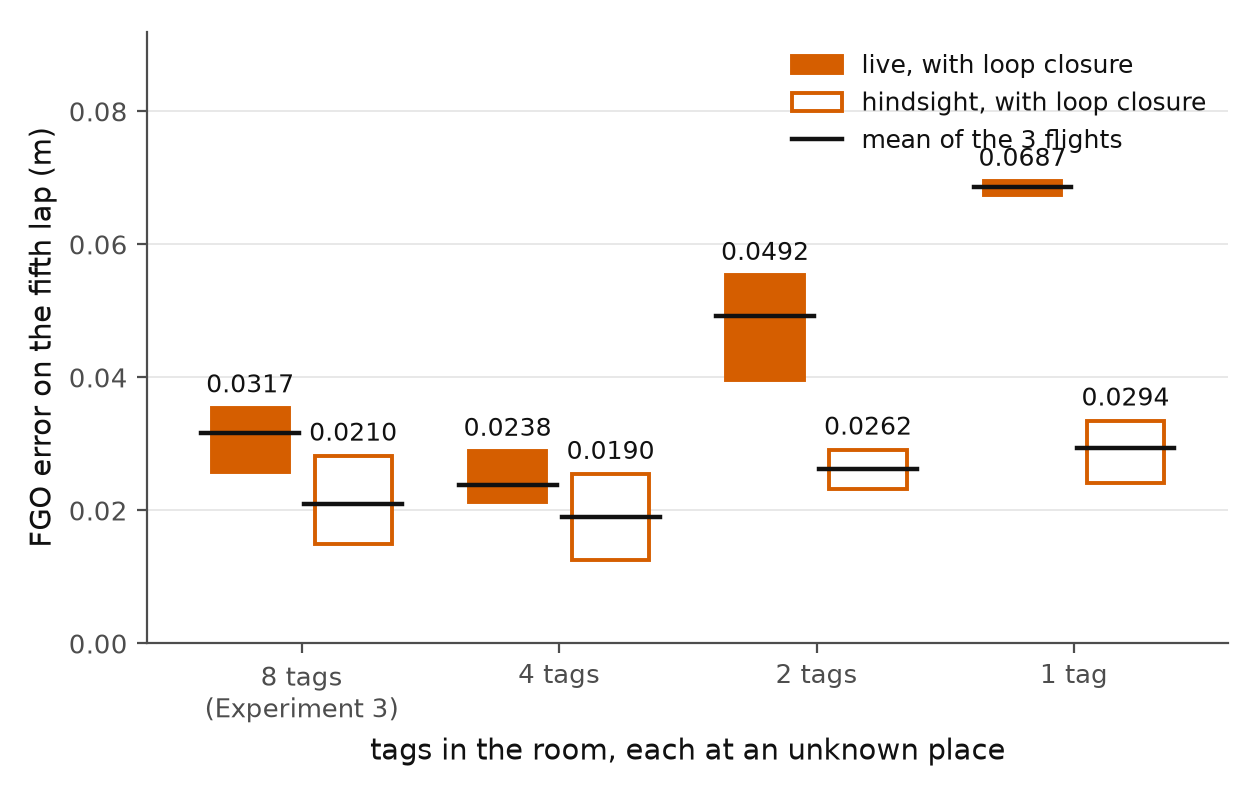
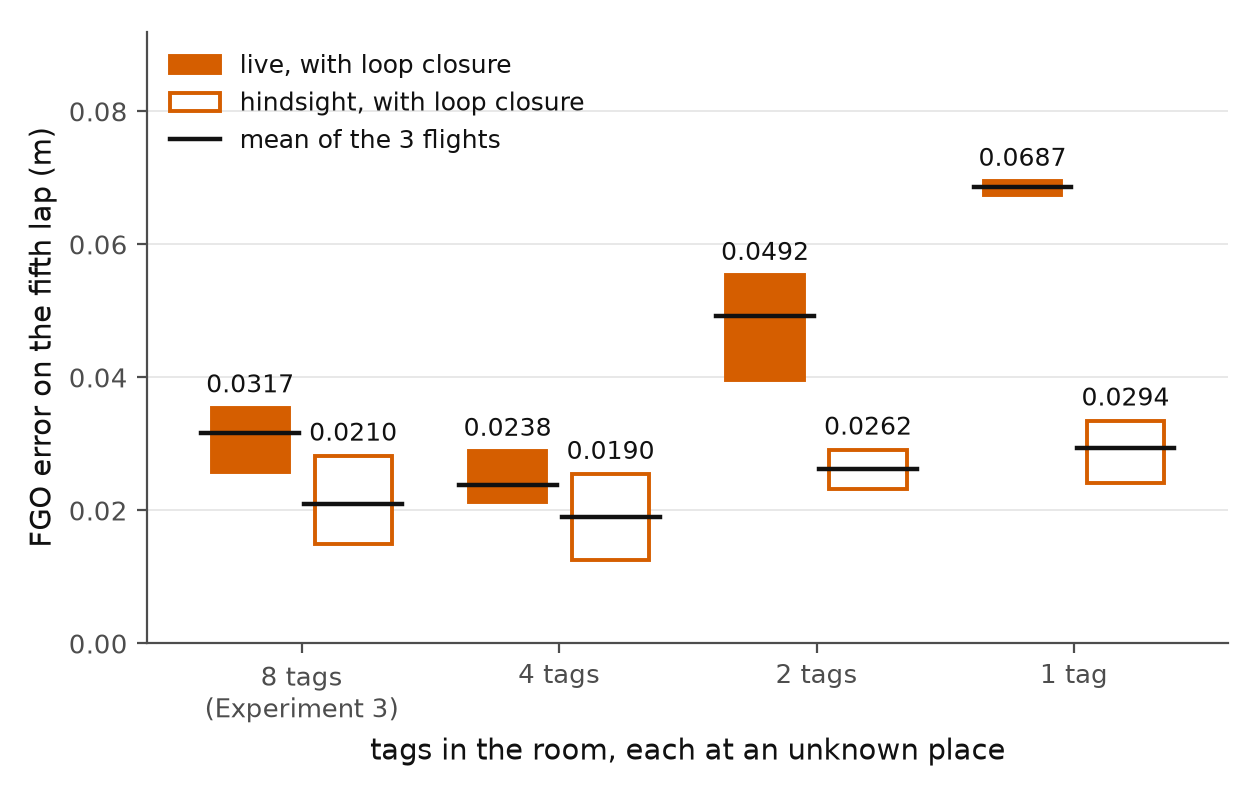
D124 Group C: advisor-review fixes (raw/fitted labels, RMSE wording, caption accuracy, layout)
Second round of fixes on the Group C candidates (E2/E3/E5), found by advisor review:
every caption now states raw or fitted explicitly (the on-canvas badge the restyle rules
correctly removed was never moved into the caption text); C07's y-label and caption called
an RMSE an "average", fixed to match F7's wording; C02's caption had dropped the 5% rate;
C03's caption falsely claimed to show "the same numbers" as C02 and was rewritten to stand
alone (own columns, n per row, raw/descriptive status); C01's legend moved off the 1-tag
label it was sitting on; C04_table.md's footnote no longer carries coordinator-process text;
ASCII " -- " em-dash substitutes removed from every caption/table file.

Re-ran eval/figs_cand_c_extract.py under heavy.py and eval/figs_cand_c.py: 81/81 checks still
pass, check_numbers_frozen.py PASS, caption_verdict_check.py 24/24 unchanged, all 7 captions
re-verified against its exact banned-word/pointer-line logic, every candidate PDF still 453.6
pt wide. All five chart PNGs re-viewed.

Changed region(s): [[0.619, 0.0625, 0.9595, 0.1875], [0.1238, 0.0625, 0.4643, 0.1875]]

diff --git a/eval/figs_cand_c.py b/eval/figs_cand_c.py
@@ -265,13 +265,14 @@ ax.set_ylabel("FGO error on the fifth lap (m)")
 leg = ax.legend(handles=[Patch(facecolor=C["FGO"], edgecolor=C["FGO"], lw=1.4, label="live, with loop closure"),
                          Patch(facecolor=SURF, edgecolor=C["FGO"], lw=1.4, label="hindsight, with loop closure"),
                          Line2D([], [], color=INK, lw=1.6, label="mean of the 3 flights")],
-                frameon=False, loc="upper right", fontsize=9.0, labelspacing=0.5)
+                frameon=False, loc="upper left", fontsize=9.0, labelspacing=0.5)
 fig.tight_layout()
 save("C01", fig, "docs/thesis/tier1/scores/E2_verdicts.json, E2_T_{B,C,D}_r{1,2,3}.json; eval/results/expL/T_A_r{1,2,3}_t245.json", key=True)
 
 C01_CAP = (
     f"Extension E2 (loop closure with fewer tags; tag room, 5 laps of a 6 m square, open loop on simulator truth; the condition with "
-    "8 tags re-uses the Experiment 3 flights): the FGO's horizontal position error on the fifth lap, root-mean-square, in the frame of "
+    "8 tags re-uses the Experiment 3 flights): raw, measured from the start tag, nothing fitted. The FGO's horizontal position error "
+    "on the fifth lap, root-mean-square, in the frame of "
     "the start tag, box = lowest to highest over 3 flights, solid/filled = live (with loop closure), open = hindsight (after "
     f"landing, with loop closure); black line = the mean of the 3 flights in that box (live or hindsight). The mean lap-5 live "
     "error over 3 flights is "
@@ -353,9 +354,10 @@ fig.tight_layout(rect=(0, 0.1, 1, 1))
 save("C02", fig, "docs/thesis/tier1/scores/E3_verdicts.json (runs, references)", pool="C0203")
 
 C0203_CAP = (
-    "Extension E3 (wrong tag IDs; 8-tag room, 5 laps, the FGO with loop closure): outcome of every run, 3 flights (T_A_r1-r3) times 3 "
-    "seeds at each wrong-ID rate (1%, control at rate 0: 3 flights, no seed sweep). One mark per run: live horizontal position error "
-    "over five laps, root-mean-square, start-tag frame, metres; a run that diverged (no finite error) is marked separately. Grey band: "
+    "Extension E3 (wrong tag IDs; 8-tag room, 5 laps, the FGO with loop closure): raw, measured from the start tag, nothing fitted. "
+    "Outcome of every run, 3 flights (T_A_r1-r3) times 3 "
+    "seeds at each wrong-ID rate (1% and 5%; control at rate 0: 3 flights, no seed sweep). One mark per run: live horizontal position "
+    "error over five laps, root-mean-square, start-tag frame, metres; a run that diverged (no finite error) is marked separately. Grey band: "
     f"the stored error without loop closure on the same 3 flights, {VREF} m. At 1% wrong IDs the FGO as built (plain) diverged in "
     f"{ROW3[('a','0.01')]['div']} of {ROW3[('a','0.01')]['n']} runs and the finished runs ended at {ROW3[('a','0.01')]['rng']} m; "
     f"at 5% it diverged in {ROW3[('a','0.05')]['div']} of {ROW3[('a','0.05')]['n']} and finished at "
@@ -385,8 +387,14 @@ guard("C0203", C03_MD)
 with open(os.path.join(OUTD, "C03_table.md"), "w") as f:
     f.write(C03_MD + "\n")
 print("wrote C03_table.md")
-C03_CAP = ("Extension E3 (wrong tag IDs): the outcome of every run as a table, the same data and the same numbers as candidate "
-           "C02's chart (one row per condition instead of one mark per run); see C03_table.md.")
+C03_CAP = ("Extension E3 (wrong tag IDs): raw, measured from the start tag, nothing fitted. The outcome of every run as a table, "
+           "one row per condition (1% and 5% wrong IDs, FGO as built and robust, plus a no-wrong-ID robust control), from the same "
+           "docs/thesis/tier1/scores/E3_verdicts.json runs and references that candidate C02's chart plots as one mark per run. "
+           "Columns: "
+           "runs diverged (no finite error), the live error of the finished runs (root-mean-square over five laps, start-tag frame, "
+           "lowest to highest, metres), the runs counted as collapsed (descriptive, not a registered measure: the run finished with a "
+           "wrong tag map, per the user's collapse-count ruling) and the stored error without loop closure on the same 3 flights, for "
+           "reference. n per row is 9 runs for the 1% and 5% rows (both arms) and 3 for the no-wrong-ID control; see C03_table.md.")
 guard("C0203", C03_CAP)
 write_caption("C03", C03_CAP + "\n\n" + pointer_line(["H-E3.1", "P-E3b.1 (1%)", "P-E3b.1 (5%)", "P-E3b.2"]))
 
@@ -437,18 +445,17 @@ C04_MD = "\n".join([
     "|---|---|---|---|---|",
 ] + ["| " + " | ".join(row) + " |" for row in C04_ROWS] + [
     "",
-    "Pass or fail of each test, counted over the runs (flights for P-E3.6); 1% / 5% = share of tag sightings given a wrong ID; a "
-    "diverged run counts as not met. Source: docs/thesis/tier1/scores/E3_verdicts.json (criteria_a, criteria_b). Primary: H-E3.1. "
-    "This table reproduces the same rows as the Extension E3 section of the appendix verdict register "
-    "(docs/thesis/tables/TA_verdicts.md), already in docs/thesis/figures_thesis/; it is included here because the brief names it "
-    "explicitly as its own candidate -- flagged for the coordinator to rule on whether it duplicates that register or stands as a "
-    "focused Extension-E3-only companion.",
+    "Pass or fail of each test, counted over the runs (flights for P-E3.6, raw per-flight means, nothing fitted); 1% / 5% = share of "
+    "tag sightings given a wrong ID; a diverged run counts as not met. Source: docs/thesis/tier1/scores/E3_verdicts.json "
+    "(criteria_a, criteria_b). Primary: H-E3.1. This table reproduces the same rows as the Extension E3 section of the appendix "
+    "verdict register (docs/thesis/tables/TA_verdicts.md).",
 ])
 guard("C04", C04_MD)
 with open(os.path.join(OUTD, "C04_table.md"), "w") as f:
     f.write(C04_MD + "\n")
 print("wrote C04_table.md")
-C04_CAP = ("Extension E3 (wrong tag IDs): every registered test, its count over the runs (3 flights × 3 seeds at each wrong-ID "
+C04_CAP = ("Extension E3 (wrong tag IDs): raw per-run counts against each registered band, nothing fitted. Every registered test, "
+           "its count over the runs (3 flights × 3 seeds at each wrong-ID "
            "rate; the robust control at rate 0 is 3 flights, no seed sweep), reproduced as a table from docs/thesis/tier1/scores/"
            "E3_verdicts.json; see C04_table.md.")
 guard("C04", C04_CAP)
@@ -537,13 +544,15 @@ save("C06", fig, "eval/figs_cand_c_extract.py cache (bag /ground_truth/pose of T
      "stats.json landmarks_final of the two runs; sim/worlds/room_tags_map.json; scores: docs/thesis/tier1/scores/"
      "E3a_T_A_r3_0.05_s0.json, E3b_T_A_r2_0.05_s1.json")
 
-C05_CAP = ("Extension E3 (wrong tag IDs), main example: grey = true track and the 8 true tags, from the start tag; orange = the "
+C05_CAP = ("Extension E3 (wrong tag IDs), main example: raw, from the start tag, nothing fitted. Grey = true track and the 8 true "
+           "tags; orange = the "
            "FGO's hindsight track (after landing) and its final tag map, equal scale, identical limits in both panels. Left: no "
            "wrong IDs (Experiment 3, flight 1), the final map matches the room. Right: 1% wrong IDs, FGO as built (flight 1, seed 0), "
            "the final map is shrunk inward from the true square.")
 guard("C05", C05_CAP)
 write_caption("C05", C05_CAP + "\n\n" + pointer_line([]))
-C06_CAP = ("Extension E3 (wrong tag IDs), appendix: two more wrong-ID runs, same drawing and equal scale as candidate C05. Left: 5% "
+C06_CAP = ("Extension E3 (wrong tag IDs), appendix: raw, from the start tag, nothing fitted. Two more wrong-ID runs, same drawing "
+           "and equal scale as candidate C05. Left: 5% "
            "wrong IDs, FGO as built (flight 3, seed 0), the final map shrunk, as in C05's right-hand panel. Right: 5% wrong IDs, "
            "robust FGO (flight 2, seed 1), the one robust run that collapsed: the final map folded into a different arrangement from "
            "the true square rather than merely shrinking.")
@@ -600,7 +609,7 @@ ax.set_xticks([0, 1.3])
 ax.set_xticklabels([T("without loop closure"), T("with loop closure")])
 ax.tick_params(axis="x", pad=8)
 ax.grid(axis="x", visible=False)
-ax.set_ylabel("average position error over 5 laps (m)")
+ax.set_ylabel("horizontal RMSE over 5 laps (m)")
 leg = ax.legend(handles=[Patch(facecolor=C["UKF"], edgecolor=C["UKF"], lw=1.4, label="UKF live"),
                          Patch(facecolor=SURF, edgecolor=C["UKF"], lw=1.4, label="UKF hindsight"),
                          Patch(facecolor=C["FGO"], edgecolor=C["FGO"], lw=1.4, label="FGO live"),
@@ -610,8 +619,9 @@ fig.tight_layout()
 save("C07", fig, "docs/thesis/tier1/scores/e5_verdicts.json, e5_T_A_r{1,2,3}.json", key=True)
 
 C07_CAP = ("Extension E5 (a UKF variant carrying each AprilTag as a landmark state, 8-tag room, 5 laps, same flights as Experiment 3): "
-           "average horizontal position error over 5 laps, box = lowest to highest over 3 flights, solid/filled = live, open = "
-           "hindsight (UKF: RTS-smoothed; FGO: the stored Experiment 3 values, its own hindsight after landing -- iSAM2's "
+           "raw, measured from the start tag, nothing fitted. "
+           "Horizontal RMSE over the 5 laps, start-tag frame, box = lowest to highest over 3 flights, solid/filled = live, open = "
+           "hindsight (UKF: RTS-smoothed; FGO: the stored Experiment 3 values, its own hindsight after landing, iSAM2's "
            "full-graph estimate after 5 extra updates, not a whole-flight LM batch, see docs/thesis/tier1/e5_design.md:247). "
            "Without loop closure "
            f"(each tag seen once), UKF live {V5[('UKF','nolc','live')]} m, UKF hindsight {V5[('UKF','nolc','hindsight')]} m, FGO live "

diff --git a/docs/handovers/2026-11-04_cand_c.md b/docs/handovers/2026-11-04_cand_c.md
@@ -14,7 +14,7 @@ New generator `eval/figs_cand_c.py` (run with `/home/makerspace/venv-evo/bin/pyt
 | C01 | Loop closure with fewer tags: the FGO's error on lap 5 | chart | walkthrough `extra/ex_E2_fewer_tags.png`; summary page 13 (same data) | 14/14 | H-E2.1; P-E2.5 (graded) |
 | C02 | Wrong tag IDs: outcome of every run | chart | summary page 14 (chart); walkthrough `extra/ex_E3_table.png` (really a table, see C03) | 14/14 (pool `C0203`, shared with C03) | H-E3.1; P-E3b.1 (1%); P-E3b.1 (5%); P-E3b.2 |
 | C03 | Wrong tag IDs: outcome of every run (table) | markdown table | walkthrough `extra/ex_E3_table.png` | shared with C02 | same as C02 |
-| C04 | Wrong tag IDs: every registered verdict | markdown table | summary page 15 = walkthrough page A1 | 18/18 | all 10 E3 ids (H-E3.1/.2/.3, P-E3.4, P-E3.5a/b/c, P-E3.6, P-E3b.1 (1%)/(5%), P-E3b.2) |
+| C04 | Wrong tag IDs: every registered verdict | markdown table | summary page 15 = walkthrough page A1 | 18/18 | all 11 E3 ids (H-E3.1/.2/.3, P-E3.4, P-E3.5a/b/c, P-E3.6, P-E3b.1 (1%)/(5%), P-E3b.2) |
 | C05 | Tag maps: clean reference + main collapse example | chart | `flights/fl_E3_maps.png` | 6/6 | none (descriptive) |
 | C06 | Tag maps: appendix (two more runs) | chart | `flights/fl_E3_maps_app.png` | 6/6 | none (descriptive) |
 | C07 | A UKF with landmark states against the FGO | chart | walkthrough `extra/ex_E5_ukf_landmarks.png`; summary page 18 (same data) | 23/23 | H-E5.1; S-E5.5; S-E5.6 |
@@ -44,12 +44,18 @@ Run once under `heavy.py` before `figs_cand_c.py`:
 python3 ~/thesis_ws/src/estimators/fgo_cpp/tools/heavy.py "cand-c E3 map bag extraction" -- \
     /home/makerspace/venv-evo/bin/python eval/figs_cand_c_extract.py
 ```
-It serialised correctly behind another group's heavy job both times it ran this session (group A's F9 chain was
-running the first time; the second run, after the first cache was deleted for the advisor-review fixes, found the
-lock free). `figs_cand_c.py` reads only the cache (never a bag directly) and deletes
-`~/thesis_data/cand_c_cache` as its last step, every run -- confirmed empty with `ls` after each of the two full
-runs this session. **Regenerating C05/C06 from a clean tree means re-running the extraction step first** (the
-cache does not persist between runs by design).
+This session ran the extraction step 4 times (each time `figs_cand_c.py` had deleted the previous cache on its
+prior successful completion, or after a crash partway through its own run left an earlier cache in place -- see
+below) and `figs_cand_c.py` itself 6 times total, iterating on two rounds of advisor review (legend/overlap and
+font-size fixes, then caption-accuracy fixes: the "raw" tag, the C07 RMSE/average wording, the C02/C03 rate and
+factual corrections, the C01 legend position). It serialised correctly behind other groups' heavy jobs twice
+(group A's F9 chain, then later group A's cache-fix extraction); both times it waited and ran once the lock freed,
+with no stale-lock or clobbering issue. `figs_cand_c.py` reads only the cache (never a bag directly). It deletes
+`~/thesis_data/cand_c_cache` as its LAST step, so a run that crashes partway through (as one did, on an
+over-length y-axis label in C07, caught by the off-canvas-text check) leaves the cache intact for the next
+attempt -- confirmed by `ls` after both the crash and every clean completion this session.
+**Regenerating C05/C06 from a clean tree means re-running the extraction step first** if no cache remains (the
+final, successful run's cache was deleted as designed).
 
 ## Design notes / judgement calls
 
@@ -103,18 +109,48 @@ cache does not persist between runs by design).
   output of `eval/figs_walkthrough_extra.py`, a separately-written generator computing the identical quantity from
   the identical stored files -- so the check is a genuine two-pipeline agreement, not a tautology. That file is read
   only, never regenerated or modified by this script.
+- **Every caption now states raw or fitted explicitly** (advisor review, second round; the brief's caption spec
+  requires it): all seven source charts carried an on-canvas "raw, measured from the start tag, nothing fitted"
+  (or "raw, from the start tag" for the maps) corner badge that D124's no-badges rule correctly removed, but the
+  information itself was never moved into the caption text in the first build. Every one of C01-C07 now opens with
+  an explicit raw/fitted statement.
+- **C07 was calling an RMSE an "average"**: both the caption and the y-axis label said "average ... position
+  error" for a quantity that is `rmse_m` (root-mean-square), not a mean. Both now read "horizontal RMSE over 5
+  laps", matching F7's own wording for the same kind of quantity; the y-label was shortened (dropping "start-tag
+  frame", stated in the caption instead) after the longer version ran off the canvas at this figure's width,
+  caught by the off-canvas-text assertion in `save()`.
+- **C02's caption dropped the 5% rate; C03's caption made a false claim** (advisor review): C02 originally said
+  "at each wrong-ID rate (1%, control at rate 0 ...)", omitting 5% entirely -- fixed to "(1% and 5%; control at
+  rate 0 ...)". C03 claimed "the same numbers as candidate C02's chart", which is false (C03's "collapsed" column
+  has no counterpart on C02's chart) and was also too thin to stand alone without C02. C03's caption now states
+  its own columns, the n per row (9 for the 1%/5% rows, 3 for the no-wrong-ID control), and the raw/descriptive
+  status of each column directly.
+- **C01's legend moved from upper-right to upper-left**: at upper-right it sat directly on the 1-tag box's
+  "0.0687" direct label (the data is much lower at the 8-tag and 4-tag x-positions, leaving upper-left genuinely
+  clear). Re-viewed after the move; no collision remains.
+- **C04_table.md's footnote no longer contains coordinator-process text**: "flagged for the coordinator to rule
+  on whether it duplicates that register..." was meta-commentary sitting inside a deliverable table file; that
+  question already lives in `index_c.md`'s own notes section (see "Open items" below), so the table's own footnote
+  now states only what the table is and where it comes from.
+- **ASCII " -- " (em-dash substitute) removed from every caption and table file**: found in the C07 caption and
+  the C04_table.md footnote; both rephrased with commas/parentheses. Confirmed none remain in any
+  `captions/*.md`, `C03_table.md` or `C04_table.md` by direct grep (only inline code comments inside
+  `eval/figs_cand_c.py` itself use " -- ", which is not a deliverable caption/figure text and is not subject to
+  the no-em-dash rule).
 
-## Checks run
+## Checks run (final state)
 
 - `eval/figs_cand_c.py`'s own checks: **81/81**.
 - `python3 tools/check_numbers_frozen.py`: **PASS**.
 - `/home/makerspace/venv-evo/bin/python eval/caption_verdict_check.py`: **24/24** (9 files, 3 exempt A1-A3) --
   unchanged from before this work (it does not yet scan `candidates/`, per the brief).
 - Manual replication of `caption_verdict_check.py`'s own `BANNED`/`POINTER_RE`/id-lookup logic against all 7
-  `candidates/captions/*.md` files: **ALL OK** (no banned word, every pointer line in the exact form, every id a
-  real `TA_verdicts.md` ID-column value).
-- Every candidate PNG viewed directly (Read tool) after the font-size and layout fixes; no collisions, clipping,
-  leftover text or overlaps found in the final set.
+  `candidates/captions/*.md` files, re-run after every caption edit this session: **ALL OK** (no banned word,
+  every pointer line in the exact form, every id a real `TA_verdicts.md` ID-column value, no em-dash and no
+  ASCII " -- " substitute in any caption).
+- Every candidate PNG viewed directly (Read tool) after both rounds of fixes (layout/font-size, then
+  caption-accuracy); no collisions, clipping, leftover text or overlaps found in the final set, including a
+  specific re-check of C01's legend position and C02's marker spacing.
 - `pdfinfo` confirms every candidate PDF is exactly 453.6 pt (160 mm) wide.
 
 ## Files touched
@@ -136,3 +172,11 @@ was touched.
   the PRIMARY hypothesis a figure's own stated content directly measures, per F7's narrowing precedent in the
   restyle handover), these could be trimmed back to H-E3.1 only -- left as built since the content genuinely covers
   all four.
+- **C05/C06 layout: two 2-panel composites, not four single-run plots.** Built to match the brief's own naming
+  ("the main collapse example with the clean reference (flights/fl_E3_maps.png) and the appendix maps
+  (flights/fl_E3_maps_app.png)"), each a 2-panel figure on identical axis limits (equal scale, shared x/y range),
+  which satisfies "panels side by side only on identical limits" as written. An alternative, equally defensible
+  reading of "one plot per run" is four separate single-panel figures (one per run, no composite at all) -- not
+  built, since the brief's explicit two-file naming reads as the intended grouping, but flagged here in case the
+  coordinator prefers the fully-split version; rebuilding it would reuse the same `e3_maps()` plotting code with
+  `len(runs) == 1`.

diff --git a/docs/thesis/figures_thesis/candidates/captions/C07.md b/docs/thesis/figures_thesis/candidates/captions/C07.md
@@ -1,3 +1,3 @@
-Extension E5 (a UKF variant carrying each AprilTag as a landmark state, 8-tag room, 5 laps, same flights as Experiment 3): average horizontal position error over 5 laps, box = lowest to highest over 3 flights, solid/filled = live, open = hindsight (UKF: RTS-smoothed; FGO: the stored Experiment 3 values, its own hindsight after landing -- iSAM2's full-graph estimate after 5 extra updates, not a whole-flight LM batch, see docs/thesis/tier1/e5_design.md:247). Without loop closure (each tag seen once), UKF live 0.8738–1.4112 m, UKF hindsight 0.9162–1.3349 m, FGO live 0.2625–0.3608 m, FGO hindsight 0.2210–0.2657 m. With loop closure (re-identifying tags seen before), UKF live 0.0911–0.1335 m, UKF hindsight 0.0445–0.0552 m, FGO live 0.0494–0.0760 m, FGO hindsight 0.0172–0.0270 m. With loop closure the UKF's lap 5 ÷ lap 1 live ratio is 0.27–0.42.
+Extension E5 (a UKF variant carrying each AprilTag as a landmark state, 8-tag room, 5 laps, same flights as Experiment 3): raw, measured from the start tag, nothing fitted. Horizontal RMSE over the 5 laps, start-tag frame, box = lowest to highest over 3 flights, solid/filled = live, open = hindsight (UKF: RTS-smoothed; FGO: the stored Experiment 3 values, its own hindsight after landing, iSAM2's full-graph estimate after 5 extra updates, not a whole-flight LM batch, see docs/thesis/tier1/e5_design.md:247). Without loop closure (each tag seen once), UKF live 0.8738–1.4112 m, UKF hindsight 0.9162–1.3349 m, FGO live 0.2625–0.3608 m, FGO hindsight 0.2210–0.2657 m. With loop closure (re-identifying tags seen before), UKF live 0.0911–0.1335 m, UKF hindsight 0.0445–0.0552 m, FGO live 0.0494–0.0760 m, FGO hindsight 0.0172–0.0270 m. With loop closure the UKF's lap 5 ÷ lap 1 live ratio is 0.27–0.42.
 
 Verdicts: Table A.4, rows H-E5.1; S-E5.5; S-E5.6.

diff --git a/docs/thesis/figures_thesis/candidates/captions/C01.md b/docs/thesis/figures_thesis/candidates/captions/C01.md
@@ -1,3 +1,3 @@
-Extension E2 (loop closure with fewer tags; tag room, 5 laps of a 6 m square, open loop on simulator truth; the condition with 8 tags re-uses the Experiment 3 flights): the FGO's horizontal position error on the fifth lap, root-mean-square, in the frame of the start tag, box = lowest to highest over 3 flights, solid/filled = live (with loop closure), open = hindsight (after landing, with loop closure); black line = the mean of the 3 flights in that box (live or hindsight). The mean lap-5 live error over 3 flights is 0.0317 m at 8 tags, 0.0238 m at 4 tags, 0.0492 m at 2 tags and 0.0687 m at 1 tag; the corresponding hindsight means (no mean test is registered for hindsight) are 0.0210, 0.0190, 0.0262 and 0.0294 m. With 1 tag, that tag is the start tag, so that condition is the known-map, one-tag case.
+Extension E2 (loop closure with fewer tags; tag room, 5 laps of a 6 m square, open loop on simulator truth; the condition with 8 tags re-uses the Experiment 3 flights): raw, measured from the start tag, nothing fitted. The FGO's horizontal position error on the fifth lap, root-mean-square, in the frame of the start tag, box = lowest to highest over 3 flights, solid/filled = live (with loop closure), open = hindsight (after landing, with loop closure); black line = the mean of the 3 flights in that box (live or hindsight). The mean lap-5 live error over 3 flights is 0.0317 m at 8 tags, 0.0238 m at 4 tags, 0.0492 m at 2 tags and 0.0687 m at 1 tag; the corresponding hindsight means (no mean test is registered for hindsight) are 0.0210, 0.0190, 0.0262 and 0.0294 m. With 1 tag, that tag is the start tag, so that condition is the known-map, one-tag case.
 
 Verdicts: Table A.4, rows H-E2.1; P-E2.5 (graded).

diff --git a/docs/thesis/figures_thesis/candidates/captions/C02.md b/docs/thesis/figures_thesis/candidates/captions/C02.md
@@ -1,3 +1,3 @@
-Extension E3 (wrong tag IDs; 8-tag room, 5 laps, the FGO with loop closure): outcome of every run, 3 flights (T_A_r1-r3) times 3 seeds at each wrong-ID rate (1%, control at rate 0: 3 flights, no seed sweep). One mark per run: live horizontal position error over five laps, root-mean-square, start-tag frame, metres; a run that diverged (no finite error) is marked separately. Grey band: the stored error without loop closure on the same 3 flights, 0.2625–0.3608 m. At 1% wrong IDs the FGO as built (plain) diverged in 6 of 9 runs and the finished runs ended at 3.7161–3.8960 m; at 5% it diverged in 0 of 9 and finished at 4.0395–4.2231 m. The robust FGO never diverged at either rate (0.0496–1.4769 m at 1%, 0.9776–4.1849 m at 5%) and with no wrong IDs finished at 0.0484–0.0760 m.
+Extension E3 (wrong tag IDs; 8-tag room, 5 laps, the FGO with loop closure): raw, measured from the start tag, nothing fitted. Outcome of every run, 3 flights (T_A_r1-r3) times 3 seeds at each wrong-ID rate (1% and 5%; control at rate 0: 3 flights, no seed sweep). One mark per run: live horizontal position error over five laps, root-mean-square, start-tag frame, metres; a run that diverged (no finite error) is marked separately. Grey band: the stored error without loop closure on the same 3 flights, 0.2625–0.3608 m. At 1% wrong IDs the FGO as built (plain) diverged in 6 of 9 runs and the finished runs ended at 3.7161–3.8960 m; at 5% it diverged in 0 of 9 and finished at 4.0395–4.2231 m. The robust FGO never diverged at either rate (0.0496–1.4769 m at 1%, 0.9776–4.1849 m at 5%) and with no wrong IDs finished at 0.0484–0.0760 m.
 
 Verdicts: Table A.4, rows H-E3.1; P-E3b.1 (1%); P-E3b.1 (5%); P-E3b.2.

diff --git a/docs/thesis/figures_thesis/candidates/index_c.md b/docs/thesis/figures_thesis/candidates/index_c.md
@@ -1,6 +1,6 @@
 # Group C candidate thesis figures (decision D124): Extension E2, Extension E3 (including the tag maps) and Extension E5
 
-Built by eval/figs_cand_c.py at commit `d37f63b`, run with /home/makerspace/venv-evo/bin/python. The E3 tag maps (C05, C06) also need eval/figs_cand_c_extract.py, run once under heavy.py to cache /ground_truth/pose from the stored bags to ~/thesis_data/cand_c_cache (deleted once this script finishes). Stored outputs only throughout: no flight, estimator replay or simulation. Rules: 160 mm (6.30 in) wide, Okabe-Ito EKF3/UKF/FGO + grey truth, filled = live / open = hindsight, no titles, no verdict words, no badges or explanatory notes inside axes, no bold in axes, side-by-side panels only on a shared scale, every number in an exact cross-check (parsed rd(), SHA-pinned).
+Built by eval/figs_cand_c.py at commit `487aaa0`, run with /home/makerspace/venv-evo/bin/python. The E3 tag maps (C05, C06) also need eval/figs_cand_c_extract.py, run once under heavy.py to cache /ground_truth/pose from the stored bags to ~/thesis_data/cand_c_cache (deleted once this script finishes). Stored outputs only throughout: no flight, estimator replay or simulation. Rules: 160 mm (6.30 in) wide, Okabe-Ito EKF3/UKF/FGO + grey truth, filled = live / open = hindsight, no titles, no verdict words, no badges or explanatory notes inside axes, no bold in axes, side-by-side panels only on a shared scale, every number in an exact cross-check (parsed rd(), SHA-pinned).
 
 **Checks: 81/81 (exact string equality).**
 

diff --git a/docs/thesis/figures_thesis/candidates/C04_table.md b/docs/thesis/figures_thesis/candidates/C04_table.md
@@ -14,4 +14,4 @@
 | P-E3b.1 (5%, robust) | 5%: robust error at most 1.10 × the plain FGO's | 9 of 9 | PASS |  |
 | P-E3b.2 (robust) | no wrong IDs: robust within ±10% of the clean error | 3 of 3 | PASS |  |
 
-Pass or fail of each test, counted over the runs (flights for P-E3.6); 1% / 5% = share of tag sightings given a wrong ID; a diverged run counts as not met. Source: docs/thesis/tier1/scores/E3_verdicts.json (criteria_a, criteria_b). Primary: H-E3.1. This table reproduces the same rows as the Extension E3 section of the appendix verdict register (docs/thesis/tables/TA_verdicts.md), already in docs/thesis/figures_thesis/; it is included here because the brief names it explicitly as its own candidate -- flagged for the coordinator to rule on whether it duplicates that register or stands as a focused Extension-E3-only companion.
+Pass or fail of each test, counted over the runs (flights for P-E3.6, raw per-flight means, nothing fitted); 1% / 5% = share of tag sightings given a wrong ID; a diverged run counts as not met. Source: docs/thesis/tier1/scores/E3_verdicts.json (criteria_a, criteria_b). Primary: H-E3.1. This table reproduces the same rows as the Extension E3 section of the appendix verdict register (docs/thesis/tables/TA_verdicts.md).

diff --git a/docs/thesis/figures_thesis/candidates/captions/C03.md b/docs/thesis/figures_thesis/candidates/captions/C03.md
@@ -1,3 +1,3 @@
-Extension E3 (wrong tag IDs): the outcome of every run as a table, the same data and the same numbers as candidate C02's chart (one row per condition instead of one mark per run); see C03_table.md.
+Extension E3 (wrong tag IDs): raw, measured from the start tag, nothing fitted. The outcome of every run as a table, one row per condition (1% and 5% wrong IDs, FGO as built and robust, plus a no-wrong-ID robust control), from the same docs/thesis/tier1/scores/E3_verdicts.json runs and references that candidate C02's chart plots as one mark per run. Columns: runs diverged (no finite error), the live error of the finished runs (root-mean-square over five laps, start-tag frame, lowest to highest, metres), the runs counted as collapsed (descriptive, not a registered measure: the run finished with a wrong tag map, per the user's collapse-count ruling) and the stored error without loop closure on the same 3 flights, for reference. n per row is 9 runs for the 1% and 5% rows (both arms) and 3 for the no-wrong-ID control; see C03_table.md.
 
 Verdicts: Table A.4, rows H-E3.1; P-E3b.1 (1%); P-E3b.1 (5%); P-E3b.2.

diff --git a/docs/thesis/figures_thesis/candidates/captions/C06.md b/docs/thesis/figures_thesis/candidates/captions/C06.md
@@ -1,3 +1,3 @@
-Extension E3 (wrong tag IDs), appendix: two more wrong-ID runs, same drawing and equal scale as candidate C05. Left: 5% wrong IDs, FGO as built (flight 3, seed 0), the final map shrunk, as in C05's right-hand panel. Right: 5% wrong IDs, robust FGO (flight 2, seed 1), the one robust run that collapsed: the final map folded into a different arrangement from the true square rather than merely shrinking.
+Extension E3 (wrong tag IDs), appendix: raw, from the start tag, nothing fitted. Two more wrong-ID runs, same drawing and equal scale as candidate C05. Left: 5% wrong IDs, FGO as built (flight 3, seed 0), the final map shrunk, as in C05's right-hand panel. Right: 5% wrong IDs, robust FGO (flight 2, seed 1), the one robust run that collapsed: the final map folded into a different arrangement from the true square rather than merely shrinking.
 
 Verdicts: Table A.4, none (descriptive).

diff --git a/docs/thesis/figures_thesis/candidates/captions/C05.md b/docs/thesis/figures_thesis/candidates/captions/C05.md
@@ -1,3 +1,3 @@
-Extension E3 (wrong tag IDs), main example: grey = true track and the 8 true tags, from the start tag; orange = the FGO's hindsight track (after landing) and its final tag map, equal scale, identical limits in both panels. Left: no wrong IDs (Experiment 3, flight 1), the final map matches the room. Right: 1% wrong IDs, FGO as built (flight 1, seed 0), the final map is shrunk inward from the true square.
+Extension E3 (wrong tag IDs), main example: raw, from the start tag, nothing fitted. Grey = true track and the 8 true tags; orange = the FGO's hindsight track (after landing) and its final tag map, equal scale, identical limits in both panels. Left: no wrong IDs (Experiment 3, flight 1), the final map matches the room. Right: 1% wrong IDs, FGO as built (flight 1, seed 0), the final map is shrunk inward from the true square.
 
 Verdicts: Table A.4, none (descriptive).

diff --git a/docs/thesis/figures_thesis/candidates/captions/C04.md b/docs/thesis/figures_thesis/candidates/captions/C04.md
@@ -1,3 +1,3 @@
-Extension E3 (wrong tag IDs): every registered test, its count over the runs (3 flights × 3 seeds at each wrong-ID rate; the robust control at rate 0 is 3 flights, no seed sweep), reproduced as a table from docs/thesis/tier1/scores/E3_verdicts.json; see C04_table.md.
+Extension E3 (wrong tag IDs): raw per-run counts against each registered band, nothing fitted. Every registered test, its count over the runs (3 flights × 3 seeds at each wrong-ID rate; the robust control at rate 0 is 3 flights, no seed sweep), reproduced as a table from docs/thesis/tier1/scores/E3_verdicts.json; see C04_table.md.
 
 Verdicts: Table A.4, rows H-E3.1; H-E3.2; H-E3.3; P-E3.4; P-E3.5a; P-E3.5b; P-E3.5c; P-E3.6; P-E3b.1 (1%); P-E3b.1 (5%); P-E3b.2.
